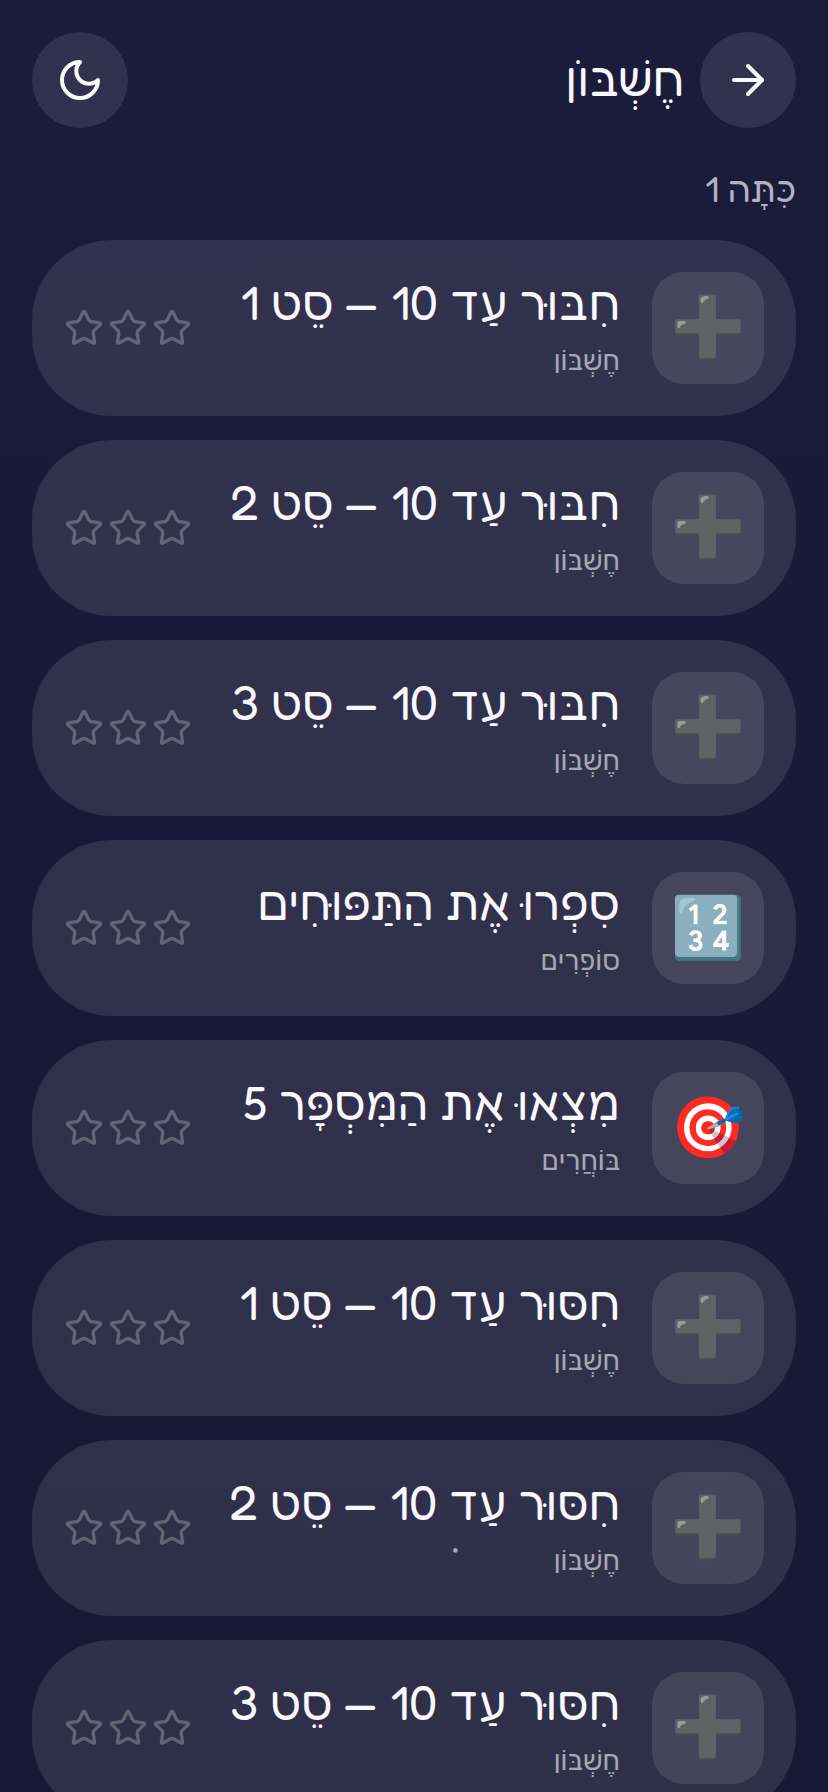
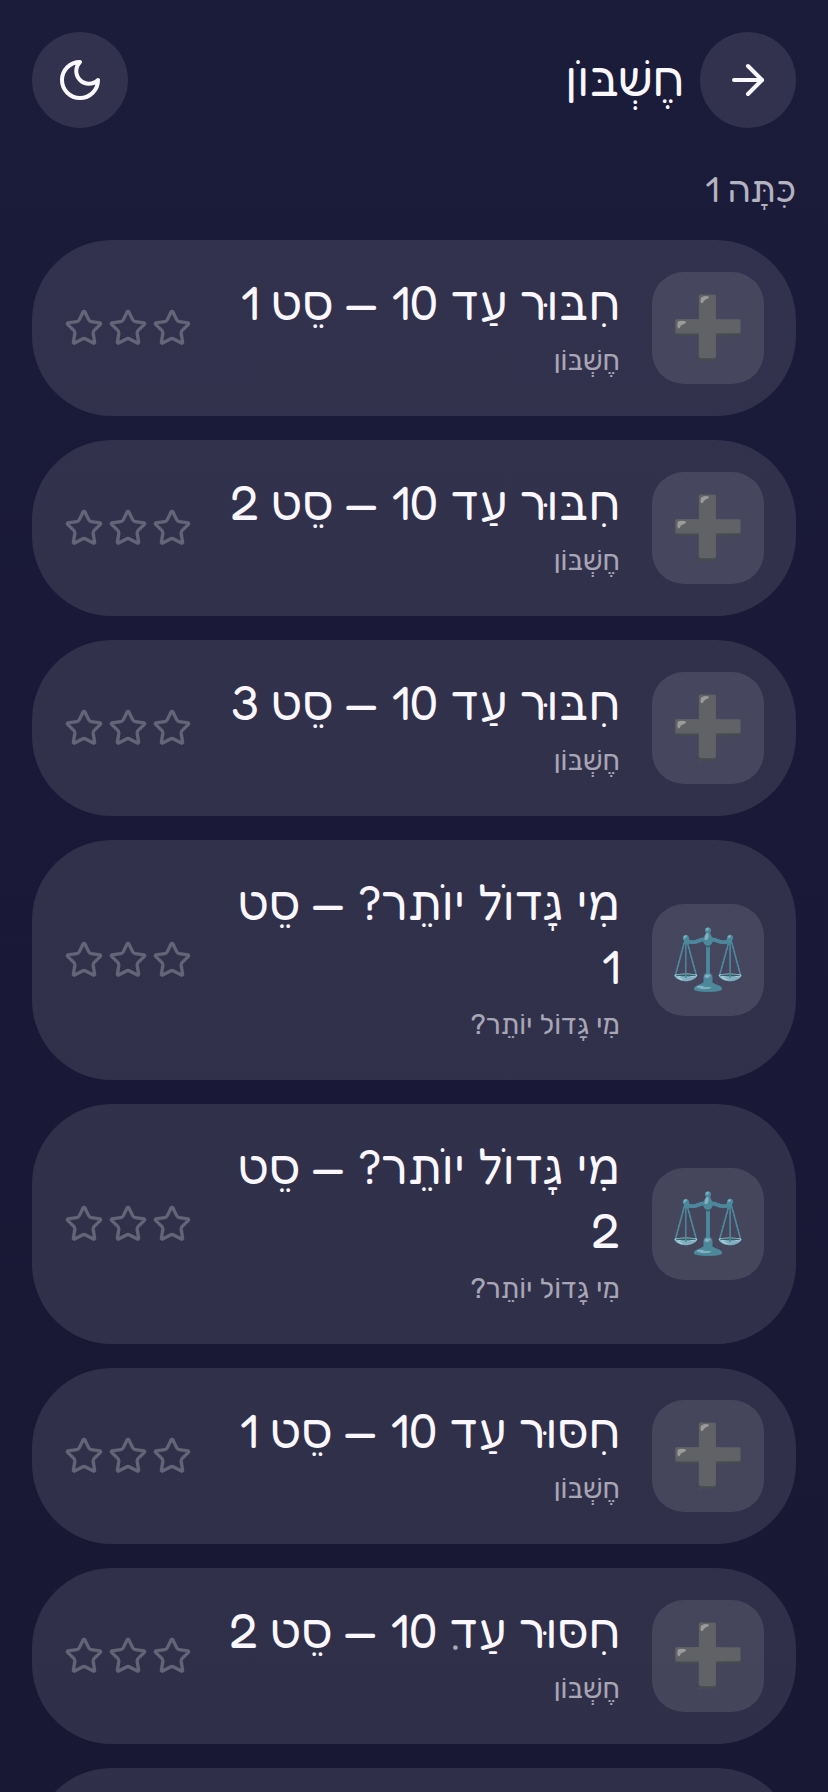
docs: document comparison category and refresh screenshots

diff --git a/README.md b/README.md
@@ -14,7 +14,7 @@ BrightKids is audio-first, mobile-first, and zero-PII: profiles are just a name 
 
 - **Trilingual content** — Hebrew (RTL), English (LTR), and Math (numeric), grades 1–4, with proper BiDi isolation for mixed Hebrew/digit text.
 - **Seven activity types** — letter recognition, multiple choice, counting, arithmetic, matching, drag-to-order, and finger **tracing** (canvas with mask-coverage scoring).
-- **Math practice sets** — 350+ generated arithmetic problems (addition, subtraction, multiplication, division) across grades 1–4, served as stepped practice runs with a progress bar.
+- **Math built from the original app's categories** — addition, subtraction, multiplication, and division (450+ generated exercises) plus the **"Who is bigger?"** number-comparison game, served as stepped practice runs with a progress bar across grades 1–4.
 - **Audio-first** — tap-to-hear on every prompt plus auto-narration on load via the Web Speech API (he-IL / en-US), so pre-readers can play.
 - **Playful rewards** — confetti, synthesized sound effects, Bibo reactions, stars, and a daily streak. Mistakes get a gentle "try again," never a shaming buzzer.
 - **Accessible** — 48px tap targets, `prefers-reduced-motion` honored, OpenDyslexic toggle, dark mode, high-contrast palette.
@@ -28,13 +28,13 @@ BrightKids is audio-first, mobile-first, and zero-PII: profiles are just a name 
 |---|---|---|
 | ![Subjects](assets/screenshots/subjects.png) | ![Letter lesson](assets/screenshots/lesson-letter.png) | ![Tracing](assets/screenshots/lesson-trace.png) |
 
-| Arithmetic | Math practice set | Rewards | Settings (parent-gated) |
+| Arithmetic | Math practice set | Who is bigger? | Rewards |
 |---|---|---|---|
-| ![Math](assets/screenshots/lesson-math.png) | ![Math set](assets/screenshots/lesson-math-set.png) | ![Rewards](assets/screenshots/rewards.png) | ![Settings](assets/screenshots/settings.png) |
+| ![Math](assets/screenshots/lesson-math.png) | ![Math set](assets/screenshots/lesson-math-set.png) | ![Compare](assets/screenshots/lesson-compare.png) | ![Rewards](assets/screenshots/rewards.png) |
 
-| Lesson list | Dark mode | OpenDyslexic font |
-|---|---|---|
-| ![Lessons](assets/screenshots/lessons.png) | ![Dark mode](assets/screenshots/subjects-dark.png) | ![OpenDyslexic](assets/screenshots/lesson-dyslexic.png) |
+| Settings (parent-gated) | Lesson list | Dark mode | OpenDyslexic |
+|---|---|---|---|
+| ![Settings](assets/screenshots/settings.png) | ![Lessons](assets/screenshots/lessons.png) | ![Dark mode](assets/screenshots/subjects-dark.png) | ![OpenDyslexic](assets/screenshots/lesson-dyslexic.png) |
 
 ## Quick start
 